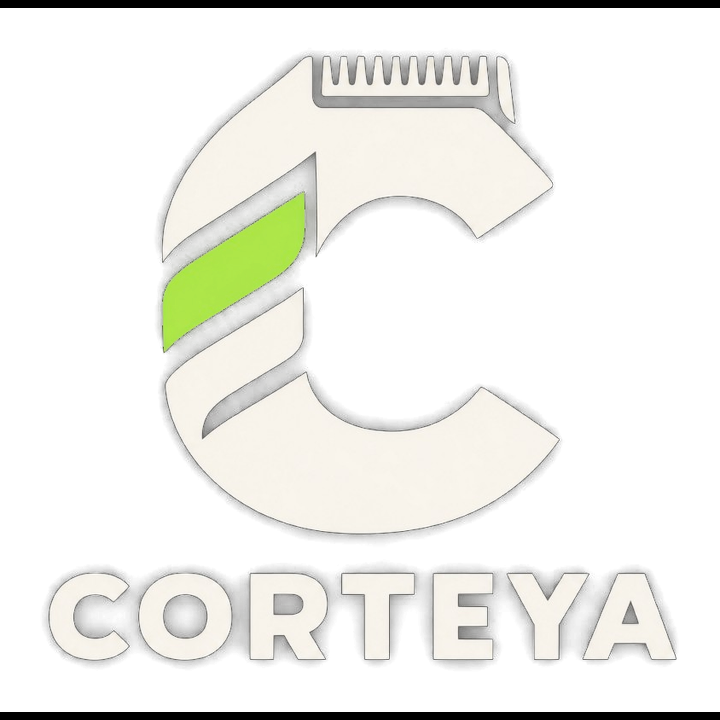
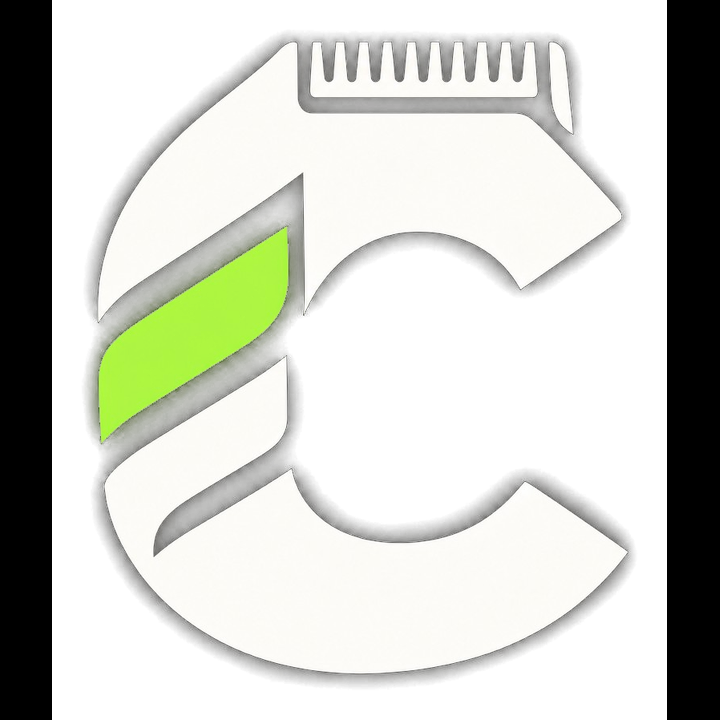
Usa el símbolo de Corteya sin el texto en los recuadros.

diff --git a/src/lib/site.ts b/src/lib/site.ts
@@ -12,7 +12,7 @@ export const site = {
   description:
     'CubiOps diseña y desarrolla páginas web, aplicaciones y automatizaciones a medida para autónomos y pequeñas empresas. Presupuesto gratis, sin compromiso.',
   tagline: 'Automatización útil para negocios reales.',
-  version: '1.5.9',
+  version: '1.6.0',
 } as const;
 
 export const nav = [

diff --git a/docs/CURRENT_STATUS.md b/docs/CURRENT_STATUS.md
@@ -1,11 +1,10 @@
 # Estado actual — CubiOps
 
-Última actualización: 2026-09-03
+Última actualización: 2026-09-15
 
 ## Ahora
 
-- Rama `main`. Web v1.5.9. Casos públicos: Reprosonic, HAF Barber Shop y Corteya (`corteya.es`, en desarrollo, sin detalle de producto).
-- Casos públicos: Reprosonic (`reprosonic.es`, web de citas + app de facturas) y HAF Barber Shop (`hafbarbershop.es`, web y app de citas, agenda y productos).
+- Rama `main`. Web v1.6.0. Logo de Corteya: solo el símbolo, sin texto.
 - Home más corta: proyectos al inicio, menos texto explicativo.
 - Correo público: `contacto@cubiops.com`.
 
